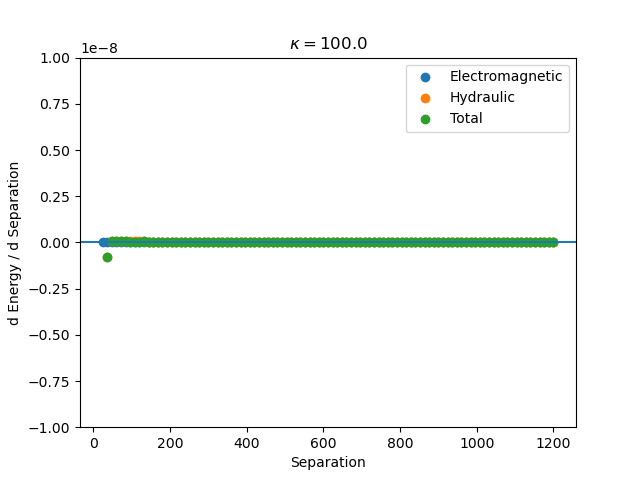
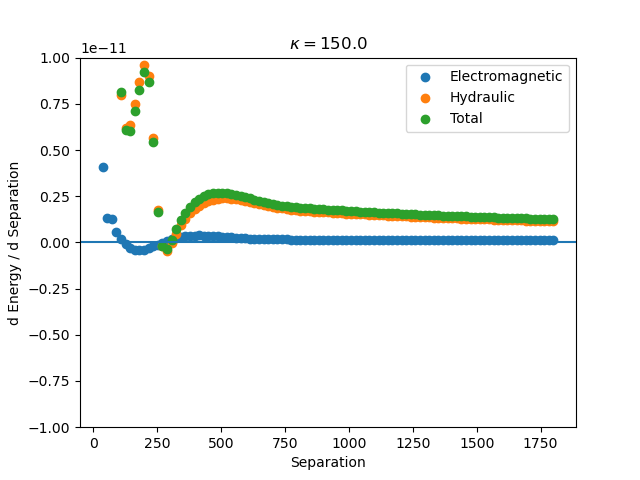
zooming in on critical point

diff --git a/plot_energy.py b/plot_energy.py
@@ -53,7 +53,7 @@ plt.close()
 plt.scatter(separations, electromagnetic, label = 'Electromagnetic')
 plt.scatter(separations, hydraulic, label = 'Hydraulic')
 plt.scatter(separations, total, label = 'Total')
-plt.ylim(2e-8,3e-8)
+plt.ylim(0.2e-8, 1e-8)
 plt.ylabel('Energy')
 plt.xlabel('Separation')
 plt.legend()
@@ -72,7 +72,7 @@ plt.scatter(separations[1:], electro_d, label = 'Electromagnetic')
 plt.scatter(separations[1:], hydro_d, label = 'Hydraulic')
 plt.scatter(separations[1:], total_d, label = 'Total')
 plt.axhline(0)
-plt.ylim(-1e-8,1e-8)
+plt.ylim(-1e-11,1e-11)
 plt.ylabel('d Energy / d Separation')
 plt.xlabel('Separation')
 plt.legend()

diff --git a/solver_rec.py b/solver_rec.py
@@ -14,7 +14,7 @@ tol = 1.49012e-08
 A_idx = int(sys.argv[1])
 K = float(sys.argv[2])
 
-As = np.linspace(0, 6*K, 101)[1:]
+As = np.linspace(0, 4*K, 101)[1:]
 
 N = float(sys.argv[3])
 NU = int(sys.argv[4])
